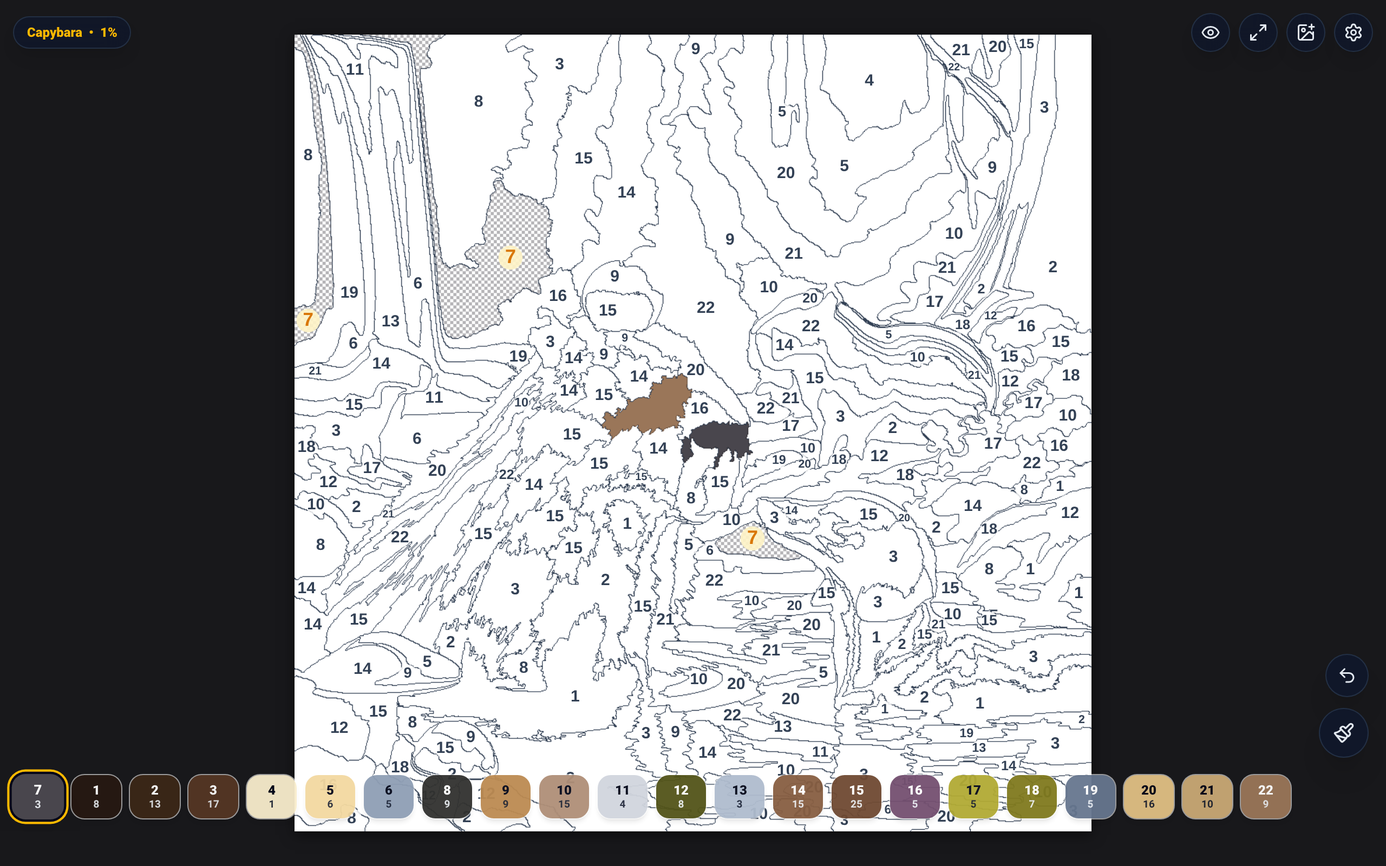
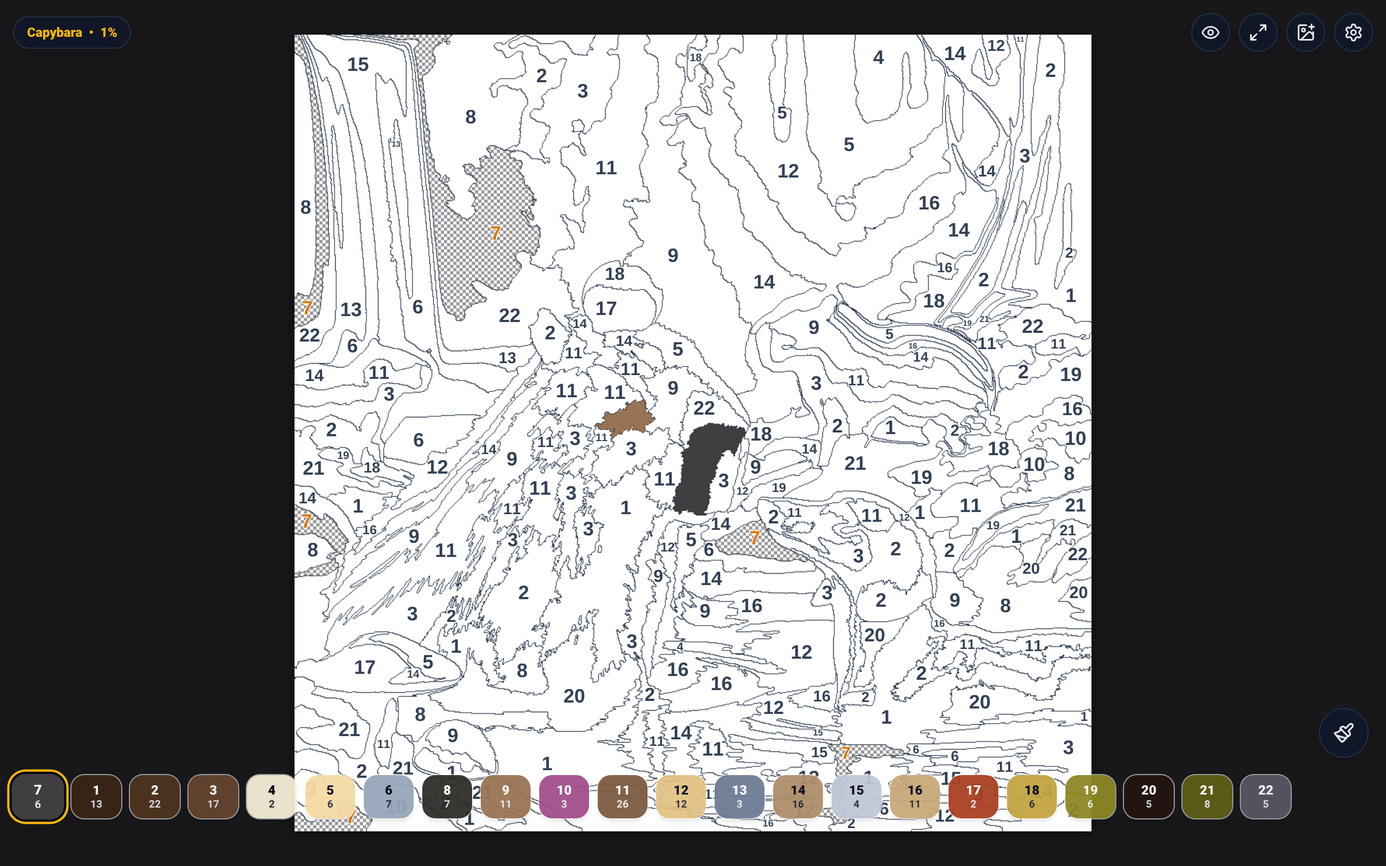
Add min/max label size options, guarantee region fit, and redo circle-free hint color

diff --git a/web/src/components/PuzzleCanvas.tsx b/web/src/components/PuzzleCanvas.tsx
@@ -29,6 +29,8 @@ interface PuzzleCanvasProps {
   showPreviewLabels: boolean;
   showPreviewBorders: boolean;
   labelScale: number;
+  minLabelSize?: number;
+  maxLabelSize?: number;
   highlightMatching: boolean;
   highlightStyle: RegionHighlightStyle;
   hintColorArgb: number;
@@ -133,6 +135,8 @@ export const PuzzleCanvas: React.FC<PuzzleCanvasProps> = ({
   showPreviewLabels,
   showPreviewBorders,
   labelScale,
+  minLabelSize = 6,
+  maxLabelSize = 18,
   highlightMatching,
   highlightStyle,
   hintColorArgb,
@@ -1095,6 +1099,8 @@ export const PuzzleCanvas: React.FC<PuzzleCanvasProps> = ({
         animateHint,
         effScale,
         labelScale,
+        minLabelSize,
+        maxLabelSize,
         visLeft,
         visTop,
         visRight,
@@ -1130,6 +1136,8 @@ export const PuzzleCanvas: React.FC<PuzzleCanvasProps> = ({
     showPreviewLabels,
     showPreviewBorders,
     labelScale,
+    minLabelSize,
+    maxLabelSize,
     highlightMatching,
     highlightStyle,
     hintColorArgb,
@@ -1730,6 +1738,8 @@ function renderLabels(
   animateHint: boolean,
   effScale: number,
   labelScale: number,
+  minLabelSize: number,
+  maxLabelSize: number,
   visLeft: number,
   visTop: number,
   visRight: number,
@@ -1737,7 +1747,6 @@ function renderLabels(
   isEffectivePreview: boolean
 ) {
   const drawGlowCircle = highlightStyle === 'CENTROID_GLOW';
-  const isNumberOnly = highlightStyle === 'NUMBER_ONLY';
 
   const hr = (hintColorArgb >> 16) & 0xff;
   const hg = (hintColorArgb >> 8) & 0xff;
@@ -1748,8 +1757,21 @@ function renderLabels(
   const ag = activePal ? activePal.g : 191;
   const ab = activePal ? activePal.b : 36;
 
+  // Pre-calculate effective min/max bounds in artwork coordinates
+  const effMinArtwork = (minLabelSize * labelScale) / effScale;
+  const effMaxArtwork = (maxLabelSize * labelScale) / effScale;
+
+  // Pre-calculate text colors (zero per-frame allocations)
+  const normalTextColor = isEffectivePreview ? '#0f172a' : '#334155';
+  const activeTextColor = '#d97706';
+  const hintAlpha = animateHint ? Math.min(1, Math.max(0.4, pulseAlpha * 1.1)) : 1.0;
+  const hintTextColor = `rgba(${hr}, ${hg}, ${hb}, ${hintAlpha})`;
+
   ctx.textAlign = 'center';
   ctx.textBaseline = 'middle';
+  ctx.lineWidth = Math.max(1, 2 / effScale);
+  ctx.strokeStyle = 'rgba(255, 255, 255, 0.9)';
+  ctx.lineJoin = 'round';
 
   for (const region of puzzle.regions) {
     if (filledRegionIds.has(region.id)) continue;
@@ -1773,7 +1795,7 @@ function renderLabels(
     const regH = region.maxY - region.minY + 1;
     const minDim = Math.min(regW, regH);
 
-    // Glowing matching circle (only in puzzle mode)
+    // Glowing matching circle (only in CENTROID_GLOW mode)
     if (!isEffectivePreview && isActive && highlightMatching && drawGlowCircle) {
       const alpha = animateHint ? pulseAlpha * hintIntensity * 0.8 : hintIntensity * 0.7;
       ctx.beginPath();
@@ -1783,8 +1805,8 @@ function renderLabels(
       ctx.fill();
     }
 
-    // Glowing hinted region circle (only in puzzle mode)
-    if (!isEffectivePreview && isHinted && (drawGlowCircle || isNumberOnly)) {
+    // Glowing hinted region circle (only in CENTROID_GLOW mode)
+    if (!isEffectivePreview && isHinted && drawGlowCircle) {
       const alpha = animateHint ? pulseAlpha * hintIntensity * 0.95 : hintIntensity * 0.9;
       ctx.beginPath();
       const radius = Math.max(8 / effScale, minDim * 0.45);
@@ -1795,58 +1817,53 @@ function renderLabels(
 
     if (!drawLabelsNow) continue;
 
-    // Tiny regions skip when unzoomed (unless active or hinted)
-    if (
-      !isActive &&
-      !isHinted &&
-      (minDim * effScale < 14 || (region.maxRadius > 0 && region.maxRadius * effScale < 7))
-    ) {
+    const labelText = displayNumberMap.get(region.colorId) || region.colorId.toString();
+    const charCount = labelText.length;
+    const cornerFactor =
+      charCount === 1
+        ? 0.4841
+        : charCount === 2
+        ? 0.7099
+        : charCount === 3
+        ? 0.9767
+        : Math.sqrt(0.09 * charCount * charCount + 0.1444);
+
+    const safetyMargin = 0.9;
+    const maxFittingArtworkSize =
+      region.maxRadius > 0
+        ? (region.maxRadius * safetyMargin) / cornerFactor
+        : (minDim * 0.4 * safetyMargin) / cornerFactor;
+
+    // If region cannot fit minimum legible label size at current zoom level, skip normal regions
+    if (!isActive && !isHinted && maxFittingArtworkSize < effMinArtwork) {
       continue;
     }
 
-    const baseFontSize = isActive || isHinted ? 18 : 15;
-    const defaultTextSize = (baseFontSize * labelScale) / effScale;
-    const regionMaxTextSize =
-      region.maxRadius > 0 ? region.maxRadius * 1.35 * labelScale : defaultTextSize;
-
-    const targetTextSize = Math.max(
-      (6 * labelScale) / effScale,
-      Math.min(defaultTextSize, regionMaxTextSize, (24 * labelScale) / effScale)
-    );
-
-    // Badge circle background
-    if (!isEffectivePreview) {
-      const bgRadius = targetTextSize * 0.62;
-      ctx.beginPath();
-      ctx.arc(region.centroidX, region.centroidY, bgRadius, 0, Math.PI * 2);
-
-      if (isNumberOnly && (isActive || isHinted)) {
-        const pulseCol = isHinted
-          ? `rgba(${hr}, ${hg}, ${hb}, ${pulseAlpha * 0.9})`
-          : `rgba(${ar}, ${ag}, ${ab}, ${pulseAlpha * 0.85})`;
-        ctx.fillStyle = pulseCol;
-      } else if (isHinted) {
-        ctx.fillStyle = `rgba(${hr}, ${hg}, ${hb}, 0.35)`;
-      } else if (isActive) {
-        ctx.fillStyle = 'rgba(254, 243, 199, 0.92)';
-      } else {
-        ctx.fillStyle = 'rgba(255, 255, 255, 0.82)';
-      }
-      ctx.fill();
+    // Determine target font size in artwork coordinates guaranteeing fit within the region
+    let targetTextSize: number;
+    if (isActive || isHinted) {
+      const fitSize = Math.min(effMaxArtwork, maxFittingArtworkSize);
+      targetTextSize = Math.max(Math.min(effMinArtwork, 2 / effScale), fitSize);
+    } else {
+      targetTextSize = Math.min(effMaxArtwork, maxFittingArtworkSize);
     }
 
-    // Label number text
-    ctx.font = `600 ${targetTextSize}px "Inter", -apple-system, sans-serif`;
-    const hintTextCol = `rgb(${Math.floor(hr * 0.6)}, ${Math.floor(hg * 0.6)}, ${Math.floor(hb * 0.6)})`;
-    ctx.fillStyle = isHinted
-      ? hintTextCol
-      : isActive
-      ? '#d97706'
-      : isEffectivePreview
-      ? '#0f172a'
-      : '#334155';
+    // Label font
+    ctx.font = isHinted
+      ? `700 ${targetTextSize}px "Inter", -apple-system, sans-serif`
+      : `600 ${targetTextSize}px "Inter", -apple-system, sans-serif`;
 
-    const labelText = displayNumberMap.get(region.colorId) || region.colorId.toString();
+    // Redo label hint effect: changes text colour, does NOT draw a circle around it
+    const isMatch = isActive && highlightMatching;
+    ctx.fillStyle = isHinted
+      ? hintTextColor
+      : isMatch
+      ? activeTextColor
+      : normalTextColor;
+
+    // Stroke outline scaled proportionally for tiny fonts so glyphs remain crisp on high-DPI screens
+    ctx.lineWidth = Math.max(0.5, Math.min(1.5 / effScale, targetTextSize * 0.22));
+    ctx.strokeText(labelText, region.centroidX, region.centroidY);
     ctx.fillText(labelText, region.centroidX, region.centroidY);
   }
 }

diff --git a/web/src/components/SettingsModal.tsx b/web/src/components/SettingsModal.tsx
@@ -669,23 +669,86 @@ export const SettingsModal: React.FC<SettingsModalProps> = ({
                 </div>
               </div>
 
-              {/* Label Scale Slider */}
-              <div className="space-y-1.5 p-3 rounded-xl bg-slate-950/40 border border-slate-800/80">
+              {/* Label Sizing & Constraints */}
+              <div className="space-y-3 p-3 rounded-xl bg-slate-950/40 border border-slate-800/80">
                 <div className="flex justify-between items-center text-xs sm:text-sm font-semibold">
-                  <span className="text-slate-200">Label Text Size</span>
-                  <span className="text-amber-400 font-mono font-bold">
-                    {Math.round(settings.labelScale * 100)}%
-                  </span>
+                  <span className="text-slate-200">Label Sizing & Bounds</span>
                 </div>
-                <input
-                  type="range"
-                  min="0.5"
-                  max="2.0"
-                  step="0.05"
-                  value={settings.labelScale}
-                  onChange={(e) => updateSetting('labelScale', parseFloat(e.target.value))}
-                  className="w-full accent-amber-400 cursor-pointer h-1.5 bg-slate-800 rounded-lg"
-                />
+
+                {/* Min Size */}
+                <div className="space-y-1">
+                  <div className="flex justify-between items-center text-xs">
+                    <span className="text-slate-300">Minimum Label Size</span>
+                    <span className="text-amber-400 font-mono font-bold">
+                      {settings.minLabelSize ?? 6} px
+                    </span>
+                  </div>
+                  <input
+                    type="range"
+                    min="2"
+                    max="14"
+                    step="1"
+                    value={settings.minLabelSize ?? 6}
+                    onChange={(e) => {
+                      const val = parseInt(e.target.value, 10);
+                      updateSetting('minLabelSize', val);
+                      if (val > (settings.maxLabelSize ?? 18)) {
+                        updateSetting('maxLabelSize', val);
+                      }
+                    }}
+                    className="w-full accent-amber-400 cursor-pointer h-1.5 bg-slate-800 rounded-lg"
+                  />
+                  <div className="text-[10px] text-slate-400">
+                    Lower values reveal tiny labels on high-resolution displays before zooming
+                  </div>
+                </div>
+
+                {/* Max Size */}
+                <div className="space-y-1">
+                  <div className="flex justify-between items-center text-xs">
+                    <span className="text-slate-300">Maximum Label Size</span>
+                    <span className="text-amber-400 font-mono font-bold">
+                      {settings.maxLabelSize ?? 18} px
+                    </span>
+                  </div>
+                  <input
+                    type="range"
+                    min="10"
+                    max="36"
+                    step="1"
+                    value={settings.maxLabelSize ?? 18}
+                    onChange={(e) => {
+                      const val = parseInt(e.target.value, 10);
+                      updateSetting('maxLabelSize', val);
+                      if (val < (settings.minLabelSize ?? 6)) {
+                        updateSetting('minLabelSize', val);
+                      }
+                    }}
+                    className="w-full accent-amber-400 cursor-pointer h-1.5 bg-slate-800 rounded-lg"
+                  />
+                  <div className="text-[10px] text-slate-400">
+                    Prevents numbers in large open regions from becoming oversized
+                  </div>
+                </div>
+
+                {/* Label Scale Slider */}
+                <div className="space-y-1">
+                  <div className="flex justify-between items-center text-xs">
+                    <span className="text-slate-300">Overall Scale</span>
+                    <span className="text-amber-400 font-mono font-bold">
+                      {Math.round(settings.labelScale * 100)}%
+                    </span>
+                  </div>
+                  <input
+                    type="range"
+                    min="0.5"
+                    max="2.0"
+                    step="0.05"
+                    value={settings.labelScale}
+                    onChange={(e) => updateSetting('labelScale', parseFloat(e.target.value))}
+                    className="w-full accent-amber-400 cursor-pointer h-1.5 bg-slate-800 rounded-lg"
+                  />
+                </div>
               </div>
 
               {/* Replay Speed & Auto-Replay on Load */}
@@ -820,7 +883,7 @@ export const SettingsModal: React.FC<SettingsModalProps> = ({
                   {(
                     [
                       { key: 'CENTROID_GLOW', label: 'Centroid Glow', desc: 'Pulsing circle at center' },
-                      { key: 'NUMBER_ONLY', label: 'Number Badge', desc: 'Glowing pill behind number' },
+                      { key: 'NUMBER_ONLY', label: 'Number Color', desc: 'Highlights matching label text colour' },
                       { key: 'FULL_REGION', label: 'Entire Region Fill', desc: 'Fills matching pixels' },
                       { key: 'BOUNDARY_ONLY', label: 'Boundary Outline', desc: 'Glowing perimeter outline' },
                     ] as const

diff --git a/web/src/App.tsx b/web/src/App.tsx
@@ -1652,6 +1652,8 @@ export const App: React.FC = () => {
         showPreviewLabels={settings.showPreviewLabels}
         showPreviewBorders={settings.showPreviewBorders}
         labelScale={settings.labelScale}
+        minLabelSize={settings.minLabelSize}
+        maxLabelSize={settings.maxLabelSize}
         highlightMatching={isReplaying ? false : settings.highlightMatching}
         highlightStyle={settings.highlightStyle}
         hintColorArgb={settings.hintColorArgb}

diff --git a/web/src/types/index.ts b/web/src/types/index.ts
@@ -81,6 +81,8 @@ export interface UserSettings {
   showNextRegionHint: boolean;
   hintIntensity: number;
   labelScale: number;
+  minLabelSize: number;
+  maxLabelSize: number;
   showZoomButtons: boolean;
   showResetViewButton: boolean;
   paletteSort: PaletteSortOrder;

diff --git a/web/src/services/StorageService.ts b/web/src/services/StorageService.ts
@@ -31,6 +31,8 @@ export const DEFAULT_SETTINGS: UserSettings = {
   showNextRegionHint: true,
   hintIntensity: 0.65,
   labelScale: 1.0,
+  minLabelSize: 6,
+  maxLabelSize: 18,
   showZoomButtons: false,
   showResetViewButton: false,
   paletteSort: 'NUMBER',

diff --git a/WEB.md b/WEB.md
@@ -110,7 +110,7 @@ The UI uses a fixed, layered viewport stack where pointer events pass through em
 | [**`GameTopBar`**](file:///home/dev environment/capyboop/paint/web/src/components/GameTopBar.tsx) | Displays puzzle title, overall completion percentage, quick actions. | Tap title to open Saves tab; toggle preview mode; enter/exit fullscreen; import image; open settings. |
 | [**`PaletteDock`**](file:///home/dev environment/capyboop/paint/web/src/components/PaletteDock.tsx) | Horizontal scrolling list of numbered color swatches with completion badges. | Tap swatch to select active color; tap active swatch again to trigger hint; tap custom color button to open picker. Guarantees persistent active color selection even when 0 matching regions remain on-screen. Supports dynamic sorting (Number, Remaining, Hue, Lightness) and viewport culling. |
 | [**`FloatingActions`**](file:///home/dev environment/capyboop/paint/web/src/components/FloatingActions.tsx) | Secondary floating action buttons positioned above the palette dock. | Undo last completed region (`Ctrl+Z` / `Cmd+Z`, disabled by default for standard puzzles, enabled automatically for free colour puzzles or via Settings toggle); long-press Undo (>=450ms) to open Replay timeline scrubber; conditional Redo button positioned above Undo (`Ctrl+Y` / `Ctrl+Shift+Z`) to re-apply undone regions (hidden until an action is undone); trigger Replay when completed; toggle continuous Paint Mode; zoom in/out; reset view to fit screen. |
-| [**`SettingsModal`**](file:///home/dev environment/capyboop/paint/web/src/components/SettingsModal.tsx) | Full modal sheet with 4 tabbed sections and automatic active tab persistence. | Automatically restores the last active tab index from `localStorage` (`capy_last_settings_tab`).<br>**Settings**: Preferences, difficulty, auto-advance, replay speed (`0.5x`–`10x`), minimal `Replay on Load` toggle, pan momentum toggle, canvas background (preset circular swatches + `<Pipette>` custom hex/color picker), dock elevation, label scale, and Android APK direct download link.<br>**Hints**: Hint styles, hint highlight colour (circular swatches + `<Pipette>`), hint intensity, animated hint pulse.<br>**Create**: Algorithm selection, color counts, min region area, line handling, sample artwork picker, device photo upload.<br>**Saves**: Unified sticky top control region combining all options, view switches, selected save actions, and library utilities (Sort dropdown, minimal `Replay on Load` toggle, Detail/Thumbnails view switcher, named save action buttons [Pin/Unpin, Load/Resume, Replay, Rename, Export `.capy`, Delete], and library buttons [Import, Export All, Delete All Saves]) into a single region always visible at the top above the scrolling gallery; single-tap save selection; double-tap/double-click save loading; pin save capability to lock saves at top; view modes between **Detail** (single vertical list with 64–72px thumbnails, percentage, file size, and progress bar) and **Thumbnails** (responsive 2–3 column grid with 4:3 rectangular preview artwork, floating pin badge, completion badge, and progress line). |
+| [**`SettingsModal`**](file:///home/dev environment/capyboop/paint/web/src/components/SettingsModal.tsx) | Full modal sheet with 4 tabbed sections and automatic active tab persistence. | Automatically restores the last active tab index from `localStorage` (`capy_last_settings_tab`).<br>**Settings**: Preferences, difficulty, auto-advance, replay speed (`0.5x`–`10x`), minimal `Replay on Load` toggle, pan momentum toggle, canvas background (preset circular swatches + `<Pipette>` custom hex/color picker), dock elevation, label sizing controls (Minimum Label Size, Maximum Label Size, and Overall Scale), and Android APK direct download link.<br>**Hints**: Highlight styles (`CENTROID_GLOW`, `NUMBER_ONLY` [changes label text colour without circles], `FULL_REGION`, `BOUNDARY_ONLY`), hint highlight colour (circular swatches + `<Pipette>`), hint intensity, animated hint pulse.<br>**Create**: Algorithm selection, color counts, min region area, line handling, sample artwork picker, device photo upload.<br>**Saves**: Unified sticky top control region combining all options, view switches, selected save actions, and library utilities (Sort dropdown, minimal `Replay on Load` toggle, Detail/Thumbnails view switcher, named save action buttons [Pin/Unpin, Load/Resume, Replay, Rename, Export `.capy`, Delete], and library buttons [Import, Export All, Delete All Saves]) into a single region always visible at the top above the scrolling gallery; single-tap save selection; double-tap/double-click save loading; pin save capability to lock saves at top; view modes between **Detail** (single vertical list with 64–72px thumbnails, percentage, file size, and progress bar) and **Thumbnails** (responsive 2–3 column grid with 4:3 rectangular preview artwork, floating pin badge, completion badge, and progress line). |
 | [**`ReplayControls`**](file:///home/dev environment/capyboop/paint/web/src/components/ReplayControls.tsx) | Non-blocking bottom HUD shown during chronological puzzle replays and upon 100% completion. | Play/Pause/Replay toggle; interactive timeline range scrubber; "Resume Play From Here" button to rewind active gameplay to any scrubbed step; speed selector (`0.5x`, `1x`, `2x`, `5x`, `10x`); Restart and Skip-to-End controls; post-completion `Save PNG` and `Next` puzzle quick actions. |
 | [**`ColorPickerPopover`**](file:///home/dev environment/capyboop/paint/web/src/components/ColorPickerPopover.tsx) | Palette customization panel for Free Colour / Coloring Page mode. | Select from 5 preset palettes (Vibrant, Mushroom, Pastels, Earthy, Neon); pick custom HSL/Hex swatches; update palette colors in real time. |
 | [**`LoadingOverlay`**](file:///home/dev environment/capyboop/paint/web/src/components/LoadingOverlay.tsx) | Non-blocking bottom-anchored HUD card keeping the background canvas visible during puzzle creation. | Supports two generation progress modes with live toggle control directly on the HUD:<br>1. **Simple Progress (Fast Mode, Default)**: Minimalist, ultra-low-overhead progress HUD showing an amber-to-yellow gradient progress bar and percentage. In Simple mode, the high-frequency canvas animation loop is completely disabled on the main thread, and worker IPC progress events are throttled with payload construction skipped, dedicating maximum CPU and memory bandwidth to the puzzle generation engine for the fastest possible load times.<br>2. **Detailed Progress**: Displays strictly monotonic progress (`0%` to `100%`), `Step X/6` badge, live sub-status, real-time pipeline parameters (detected style, chosen strategy, target regions), live K-Means clustered palette swatches, and an expandable **Generation Details** drawer listing all 6 stages alongside auto-detected style, chosen strategy rationale, color count, region targets, working resolution, and estimated save file size (`KB`). |
@@ -200,13 +200,14 @@ When regions are filled or unfilled (via gameplay, Undo, or Replay scrubbing), `
 `PuzzleCanvas` dynamically renders visual cues for active and hinted regions without redrawing base layers:
 - **Active Colour Highlighting**: When `highlightStyle` is set to `FULL_REGION` (default) or `BOUNDARY_ONLY`, unfilled regions matching `activeColorId` are filled directly with the **active palette colour** (extracted from `palette[activeColorId].rgb`). This creates an immediate visual connection between the selected palette swatch and the target puzzle shapes.
 - **Hint Highlighting**: When a hint is triggered, the target region is highlighted using `settings.hintColorArgb` (default gold `#FBBF24`), rendering a distinct checkerboard, pulse, or border pattern to avoid visual confusion with the active colour.
-- **Matching Centroid Glow & Badges**: Region centroid rings and number badges for matching regions dynamically use the active palette color for their glowing background accents.
+- **Label Hint & Highlight Effect (`NUMBER_ONLY`)**: Rather than drawing distracting circles or pills around numbers, the label hint effect changes the label text colour directly to the vibrant hint colour (pulsing when `animateHint` is enabled) or active colour `#D97706` with a crisp white stroke halo for contrast. Centroid circles are reserved strictly for `CENTROID_GLOW` mode.
 
-### Centroid Label Placement & Culling
-Labels are drawn at each region's **Pole of Inaccessibility** (deepest interior point computed via BFS in the engine), avoiding thin concave edges:
-- **Spatial Culling**: Labels outside the viewport bounding box are discarded before font measurement.
-- **Scale Thresholding**: Labels only render when `region.maxRadius * effScale >= 6px`. Tiny regions suppress labels until the user zooms in.
-- **Dynamic Contrast**: Text color automatically toggles between `#FFFFFF` (with dark drop shadow) and `#000000` (with light drop shadow) based on the region's perceived luminance (`isLight`).
+### Centroid Label Placement & Bounds Guarantee
+Labels are drawn at each region's **Pole of Inaccessibility** (deepest interior point computed via BFS distance transform in the engine), avoiding thin concave edges:
+- **Spatial Culling**: Labels outside the visible viewport bounding box are discarded before font measurement.
+- **Inscribed Circle Geometry Fitting**: Label font sizes are calculated from the region's inscribed circle radius (`maxRadius`) divided by a character-count corner factor `sqrt((0.3 * charCount)^2 + 0.1444)` with a 10% safety cushion. This guarantees that 1-digit, 2-digit, and 3-digit label bounding boxes always fit inside the region.
+- **Minimum and Maximum Size Constraints**: Labels are constrained between `minLabelSize` (range 2–14px, default 6px) and `maxLabelSize` (range 10–36px, default 18px). Lowering `minLabelSize` allows very tiny, crisp numbers to remain visible on high-resolution displays before zooming in, while `maxLabelSize` prevents numbers in large open regions from becoming oversized.
+- **Clean Stroke Contrast**: Label text is rendered with a proportional semi-transparent white stroke outline (`strokeText`) scaled down for tiny fonts, providing high contrast against dark artwork lines without drawing background circle badges.
 
 ### Viewport Pan & Zoom Clamping (`clampCanvasOffset`)
 [`clampCanvasOffset`](file:///home/dev environment/capyboop/paint/web/src/components/PuzzleCanvas.tsx) keeps the artwork bounded while providing full viewport navigation:
@@ -342,7 +343,7 @@ Capy uses a hybrid storage model to manage performance and browser storage quota
 | `canvasBgArgb` | `number` (32-bit ARGB) | `0xff18181b` (`#18181B`) | Custom background color when `canvasBgColor` is set to `'CUSTOM'` (configured via `<Pipette>` picker). |
 | `saveSortOrder` | `'LAST_ACTIVE' \| 'NAME' \| 'PROGRESS'` | `'LAST_ACTIVE'` | Sorting order for saved game snapshots in the Saves tab. |
 | `showSavePreviews` | `boolean` | `true` | Displays 240×240 thumbnails in the Saves gallery tab. |
-| `highlightStyle` | `'NONE' \| 'CENTROID_ONLY' \| 'BOUNDARY_ONLY' \| 'FULL_REGION'` | `'FULL_REGION'` | Visual overlay style for matching active regions. `FULL_REGION` and `BOUNDARY_ONLY` fill regions in the **active palette color**. |
+| `highlightStyle` | `'CENTROID_GLOW' \| 'NUMBER_ONLY' \| 'FULL_REGION' \| 'BOUNDARY_ONLY'` | `'FULL_REGION'` | Visual overlay style for matching active regions. `FULL_REGION` and `BOUNDARY_ONLY` fill regions in the active palette colour; `NUMBER_ONLY` highlights label text colour directly without drawing circles; `CENTROID_GLOW` draws a pulsing circle at the region centroid. |
 | `hintFillStyle` | `'SOLID' \| 'CHECKER' \| 'STRIPED'` | `'CHECKER'` | Texture pattern applied to the active hint target region. |
 | `hintColorArgb` | `number` (32-bit ARGB) | `0xfffbbf24` (`#FBBF24`) | Custom highlight color for hint targets (configured via `<Pipette>` picker). |
 | `showRegionLabels` | `boolean` | `true` | Displays number labels at interior poles of inaccessibility. |
@@ -352,7 +353,9 @@ Capy uses a hybrid storage model to manage performance and browser storage quota
 | `animateHint` | `boolean` | `true` | Enables pulsing / breathing animation for hinted region. |
 | `showNextRegionHint` | `boolean` | `true` | Highlights the next closest matching region when requesting hints. |
 | `hintIntensity` | `number` (0.0 – 1.0) | `0.65` | Opacity of hint overlays and glow animations. |
-| `labelScale` | `number` (0.5 – 2.0) | `1.0` | Global multiplier for number label font size. |
+| `minLabelSize` | `number` (2 – 14 px) | `6` | Minimum label font size on screen; regions where labels cannot fit at this size are suppressed until zoomed in. Lower values reveal tiny labels on high-DPI displays. Configured in Settings under Label Sizing & Bounds. |
+| `maxLabelSize` | `number` (10 – 36 px) | `18` | Maximum label font size on screen; prevents numbers in large open regions from becoming oversized. Configured in Settings under Label Sizing & Bounds. |
+| `labelScale` | `number` (0.5 – 2.0) | `1.0` | Global scaling multiplier for number label font size. Configured in Settings under Label Sizing & Bounds. |
 | `showZoomButtons` | `boolean` | `false` | Displays onscreen `+` / `-` floating zoom buttons. |
 | `showResetViewButton` | `boolean` | `false` | Displays onscreen fit-to-screen view reset button. |
 | `paletteSort` | `'NUMBER' \| 'REMAINING' \| 'HUE' \| 'LIGHTNESS'` | `'NUMBER'` | Dynamic sorting order for palette swatches in `PaletteDock`. |
